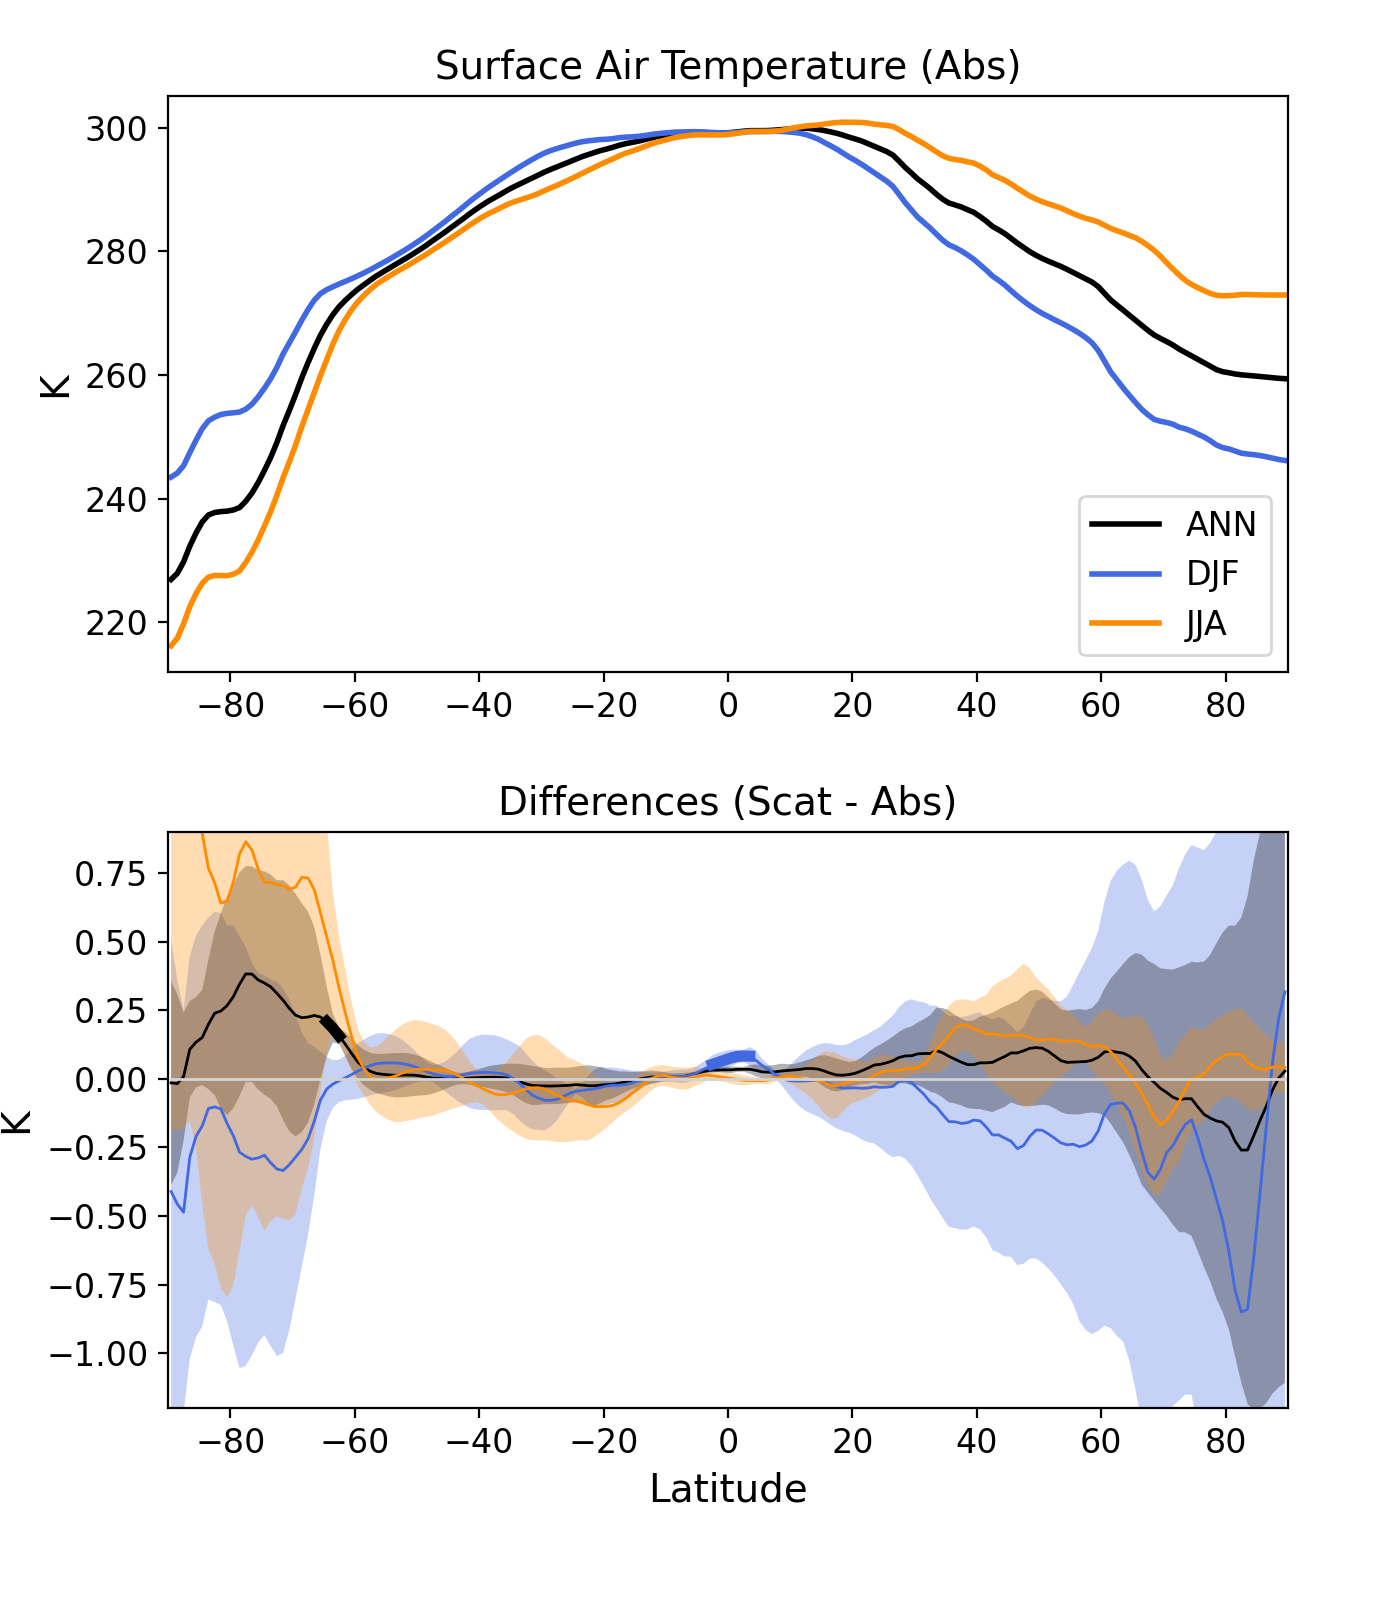
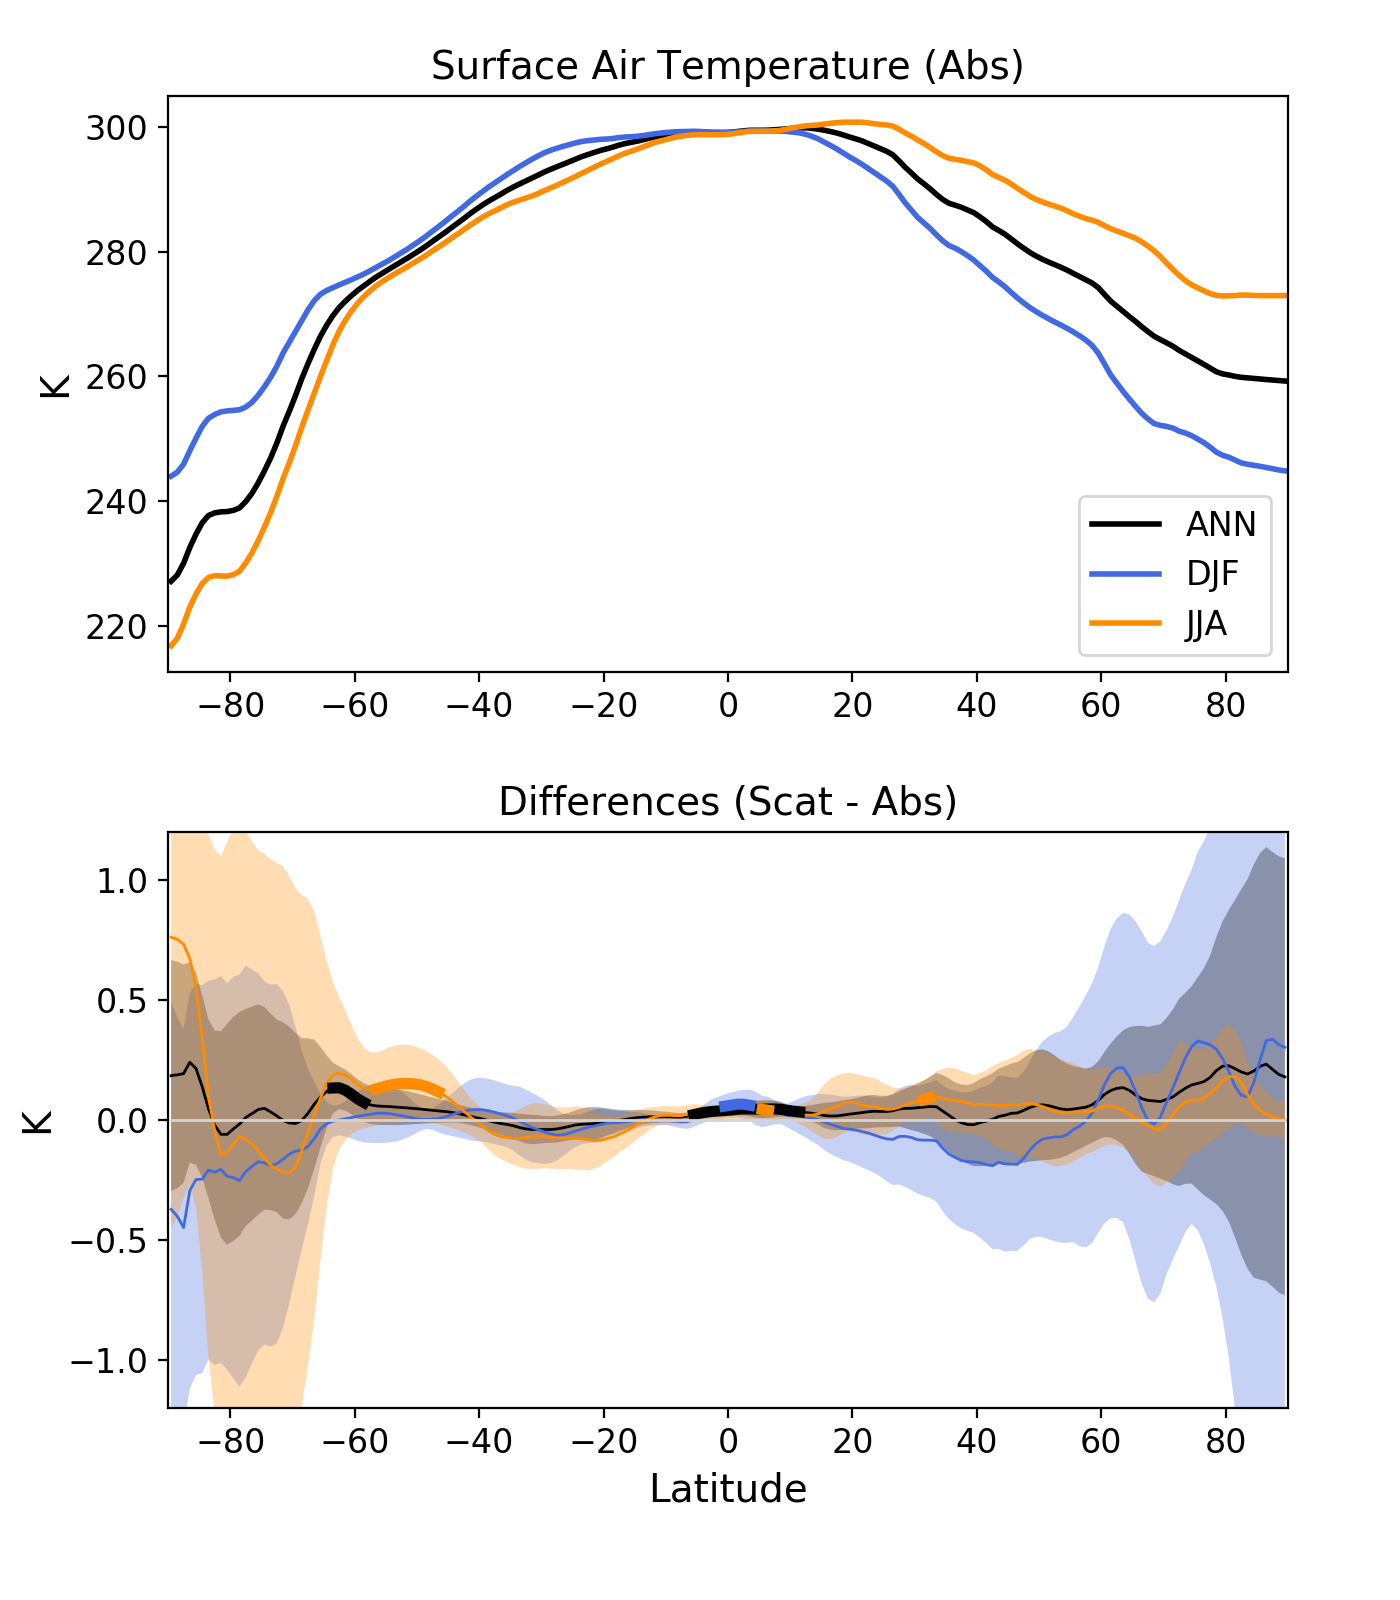
bug fixed in get_climo.py

diff --git a/utils/get_climo.py b/utils/get_climo.py
@@ -36,7 +36,7 @@ else:
 # Output
 months_to_do=["01","02","03","04","05","06","07","08","09","10","11","12"]
 seasons_to_do=["ANN","DJF","MAM","JJA","SON"]
-do_monthly=True
+do_monthly=False
 do_seasonal=True
 
 out_path=monthly_data_path+"../climo/"
@@ -49,30 +49,45 @@ if not os.path.exists(out_path):
    os.makedirs(out_path)
 
 # check existence of input files
-for yr in years:
+if do_monthly:
+    for yr in years:
+        for mon in months_to_do:
+           file_tmp=glob.glob(monthly_data_path+"*cam.h0*"+str(yr)+"-"+mon+".nc")
+           if len(file_tmp) != 1:
+               print('Either path or file name prefix is incorrect:', \
+                       monthly_data_path+"*cam.h0*"+str(yr)+"-"+mon+".nc")
+               exit()
+           file_now=file_tmp[0]
+           if not os.path.exists(file_now):
+               print("File not found!!! ",file_now)
+               exit()
+if do_seasonal:
     for mon in months_to_do:
-       file_tmp=glob.glob(monthly_data_path+"*cam.h0*"+str(yr)+"-"+mon+".nc")
-       if len(file_tmp) != 1:
-           print('Either path or file name prefix is incorrect:', \
-                   monthly_data_path+"*cam.h0*"+str(yr)+"-"+mon+".nc")
-           exit()
-       file_now=file_tmp[0]
+       file_now=out_path+caseid+"_climo_"+mon+".nc"
+       #if len(file_tmp) != 1:
+       #    print('Either path or file name prefix is incorrect:', \
+       #            monthly_data_path+"*cam.h0*"+str(yr)+"-"+mon+".nc")
+       #    exit()
+       #file_now=file_tmp[0]
        if not os.path.exists(file_now):
            print("File not found!!! ",file_now)
            exit()
+
 print('--- All input files are found ^_^ ---')
 
 # check existance of old output files
-for mon in months_to_do:
-    climo_file=out_path+caseid+"_climo_"+mon+".nc"
-    if os.path.exists(climo_file):
-        print('Old file exists!!! '+climo_file)
-        exit()
-for seasn in seasons_to_do:
-    climo_file=out_path+caseid+"_climo_"+seasn+".nc"
-    if os.path.exists(climo_file):
-        print('Ole file exists!!! ',climo_file)
-        exit()
+if do_monthly:
+    for mon in months_to_do:
+        climo_file=out_path+caseid+"_climo_"+mon+".nc"
+        if os.path.exists(climo_file):
+            print('Old file exists!!! '+climo_file)
+            exit()
+if do_seasonal:
+    for seasn in seasons_to_do:
+        climo_file=out_path+caseid+"_climo_"+seasn+".nc"
+        if os.path.exists(climo_file):
+            print('Ole file exists!!! ',climo_file)
+            exit()
 print('--- Output directory is clean ^_^ ---')
 
 # comput monthly climo
@@ -107,35 +122,40 @@ if do_seasonal:
            if os.path.exists(list_file):
                os.system("rm "+list_file)
            for mon in mons_for_seasn:
-               file_now=glob.glob(monthly_data_path+"*cam.h0*"+str(yr)+"-"+mon+".nc")[0]
+               file_now=out_path+caseid+"_climo_"+mon+".nc"
+               #file_now=glob.glob(monthly_data_path+"*cam.h0*"+str(yr)+"-"+mon+".nc")[0]
                os.system("ls "+file_now+"|cat >>"+list_file)
        elif seasn == "DJF":
            mons_for_seasn=["12","01","02"]
            if os.path.exists(list_file):
                os.system("rm "+list_file)
            for mon in mons_for_seasn:
-               file_now=glob.glob(monthly_data_path+"*cam.h0*"+str(yr)+"-"+mon+".nc")[0]
+               file_now=out_path+caseid+"_climo_"+mon+".nc"
+               #file_now=glob.glob(monthly_data_path+"*cam.h0*"+str(yr)+"-"+mon+".nc")[0]
                os.system("ls "+file_now+"|cat >>"+list_file)
        elif seasn == "MAM":
            mons_for_seasn=["03","04","05"]
            if os.path.exists(list_file):
                os.system("rm "+list_file)
            for mon in mons_for_seasn:
-               file_now=glob.glob(monthly_data_path+"*cam.h0*"+str(yr)+"-"+mon+".nc")[0]
+               file_now=out_path+caseid+"_climo_"+mon+".nc"
+               #file_now=glob.glob(monthly_data_path+"*cam.h0*"+str(yr)+"-"+mon+".nc")[0]
                os.system("ls "+file_now+"|cat >>"+list_file)
        elif seasn == "JJA":
            mons_for_seasn=["06","07","08"]
            if os.path.exists(list_file):
                os.system("rm "+list_file)
            for mon in mons_for_seasn:
-               file_now=glob.glob(monthly_data_path+"*cam.h0*"+str(yr)+"-"+mon+".nc")[0]
+               file_now=out_path+caseid+"_climo_"+mon+".nc"
+               #file_now=glob.glob(monthly_data_path+"*cam.h0*"+str(yr)+"-"+mon+".nc")[0]
                os.system("ls "+file_now+"|cat >>"+list_file)
        elif seasn == "SON":
            mons_for_seasn=["09","10","11"]
            if os.path.exists(list_file):
                os.system("rm "+list_file)
            for mon in mons_for_seasn:
-               file_now=glob.glob(monthly_data_path+"*cam.h0*"+str(yr)+"-"+mon+".nc")[0]
+               file_now=out_path+caseid+"_climo_"+mon+".nc"
+               #file_now=glob.glob(monthly_data_path+"*cam.h0*"+str(yr)+"-"+mon+".nc")[0]
                os.system("ls "+file_now+"|cat >>"+list_file)
    
        with open(list_file) as f_obj:

diff --git a/d4_zonal_mean_model_vs_model.py b/d4_zonal_mean_model_vs_model.py
@@ -31,13 +31,13 @@ from get_parameters import get_area_mean_min_max
 # data path
 ctl_name="Abs" #os.environ["ctl_name"]
 exp_name="Scat" #os.environ["exp_name"]
-ctl_pref="CMIP_RRTMG_UMRad_abs.ne30_ne30.cori-knl"
-exp_pref="CMIP_RRTMG_UMRad_scat.ne30_ne30.cori-knl"
+ctl_pref="AMIP_RRTMG_UMRad_abs.ne30_ne30.cori-knl"
+exp_pref="AMIP_RRTMG_UMRad_scat.ne30_ne30.cori-knl"
 
 fpath_ctl="/global/cscratch1/sd/xianwen/E3SM_simulations/"+ctl_pref+"/archive/climo/yby/"
 fpath_exp="/global/cscratch1/sd/xianwen/E3SM_simulations/"+exp_pref+"/archive/climo/yby/"
  
-years=np.arange(2005,2013) 
+years=np.arange(2000,2011) 
 months_all=["01","02","03","04","05","06","07","08","09","10","11","12"]
 
 var_group_todo=1
@@ -45,7 +45,7 @@ var_group_todo=1
 varnms=np.array(["TREFHT"])
 #varnms=np.array(["FSNTOA","FSNS","TS"])
 var_long_name="Surface air Temperature"
-figure_name="Surface_air_Temperature_zonal_ANN_CMIP_scat_vs_abs_2005-12"
+figure_name="Surface_air_Temperature_zonal_ANN_AMIP_scat_vs_abs"
 units="K"
 #var_long_name="Surface Net SW"
 #figure_name="Surface_Net_SW_zonal_ANN"
@@ -264,7 +264,7 @@ ax2.set_title("Differences (Scat - Abs)",fontsize=14) #+var_long_name,fontsize=1
 ax2.set_ylabel(units,fontsize=14)
 ax2.set_xlabel("Latitude",fontsize=14)
 ax2.set_xlim(-90,90)
-ax2.set_ylim(-1.2,0.9)
+ax2.set_ylim(-1.2,1.2)
 plt.xticks(fontsize=12)
 plt.yticks(fontsize=12)
 
